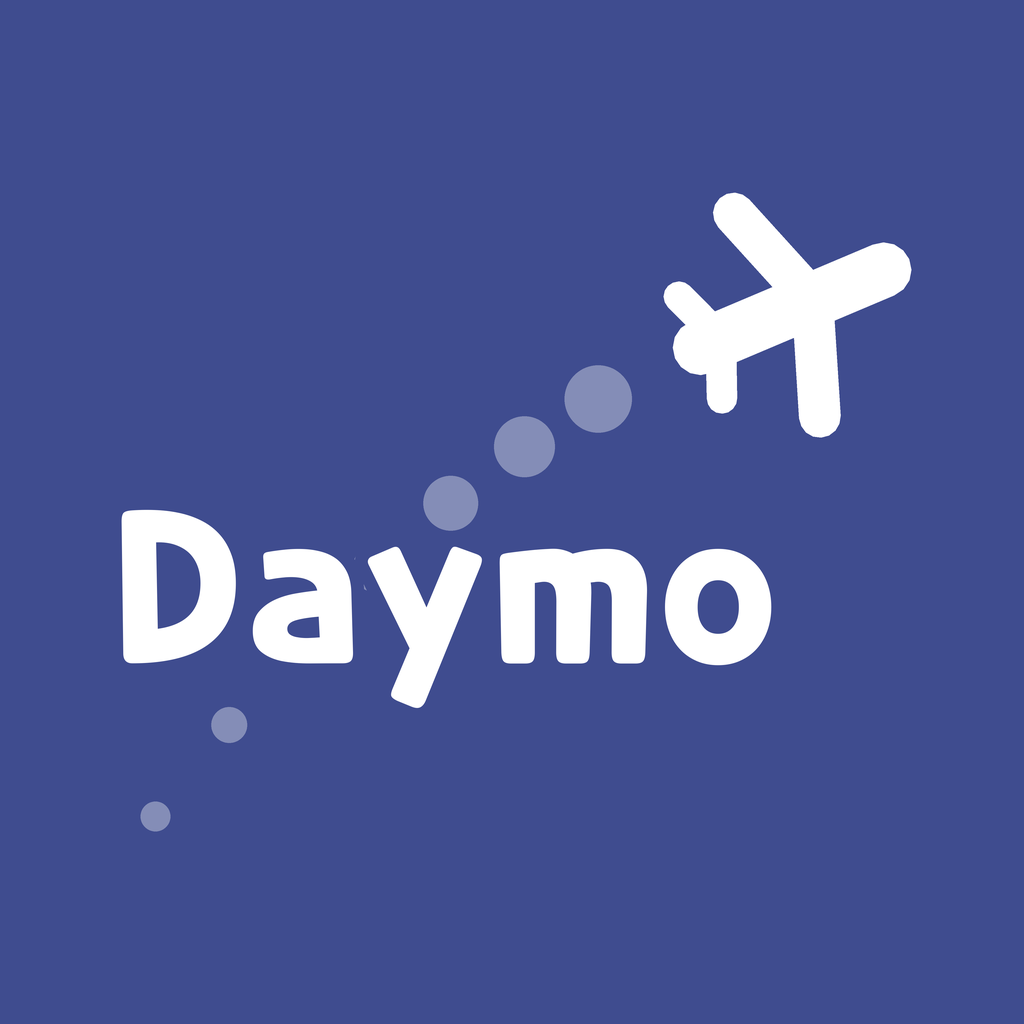
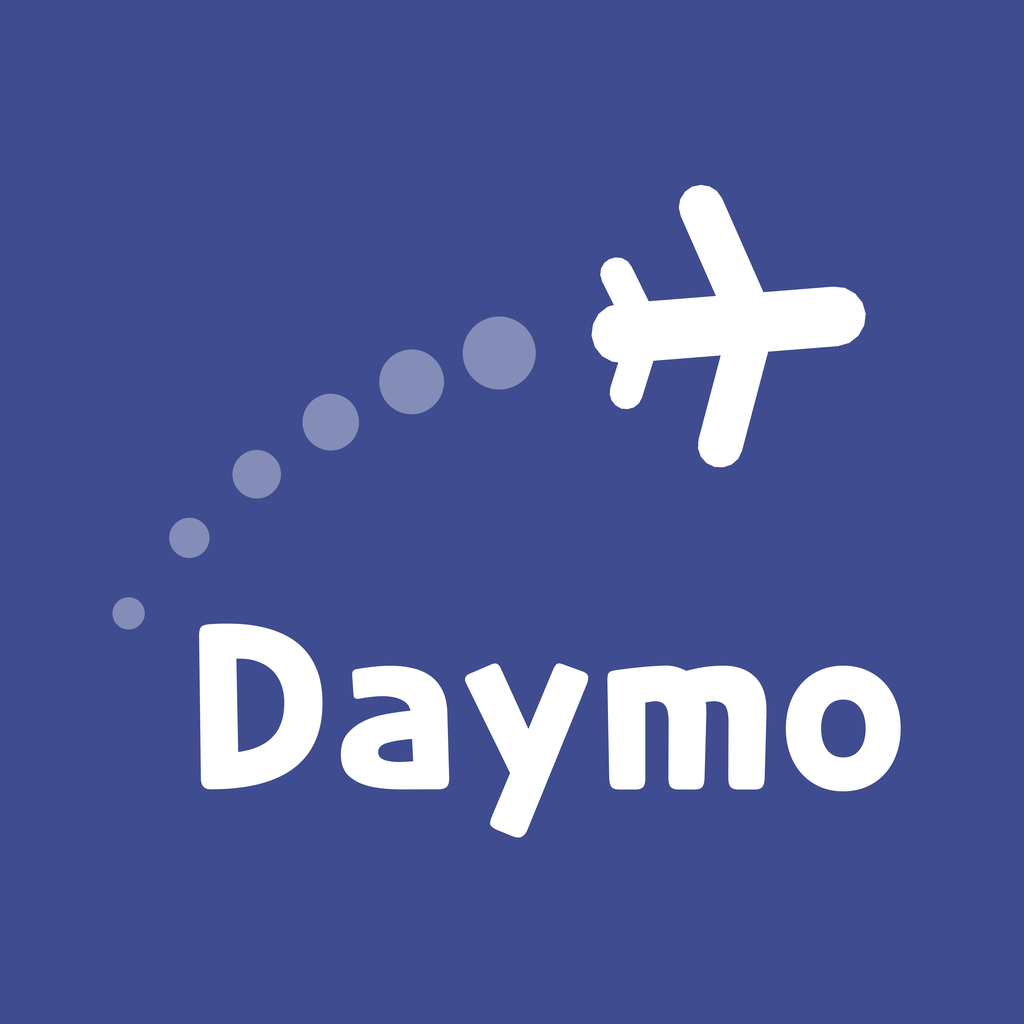
feat(app): the flight path arcs over the name and the plane sits closer
The dots used to rise from under the wordmark and three of seven hid
behind the letters, with the plane off in the top-right corner. The path
now starts left of the D and curves over the name, every dot visible, and
the plane lands above "ym". The splash box moves up so the wing is not cut.

Claude-Session: https://claude.ai/code/session_01HQmza3up7dJje4K8r8DE35

diff --git a/mobile/scripts/build-icons.py b/mobile/scripts/build-icons.py
@@ -52,10 +52,15 @@ SPLASH_PAPER_DARK = (13, 17, 26)  # #0D111A 앱 배경
 
 # --- 그림 좌표. 320 x 620 짜리 화면 하나를 기준으로 잡는다. -----------------
 
-# 궤적. 가운데 점이 두 끝을 잇는 선보다 위에 있어서 솟았다가 눕는다.
-CURVE = ((46, 486), (160, 313), (274, 296))
-TRAIL_COUNT = 7
-TRAIL_FROM, TRAIL_TO = 0.16, 0.68
+# 궤적. D 왼쪽 위에서 떠올라 이름 위를 둥글게 넘어간다.
+#
+# 예전에는 이름 아래에서 올라와 글자 뒤를 지나갔다. 점 일곱 개 중 셋이 글자에
+# 가려 경로가 끊겨 보였고, 비행기는 오른쪽 위 구석에 떨어져 있었다. 이제 점이
+# 전부 글자 위에 보이고 비행기는 이름 가운데("ym") 위에 온다.
+# 이름("Daymo")은 장면 좌표에서 x 71~250, 위 끝 y 352 다.
+CURVE = ((56, 350), (104, 282), (190, 280))
+TRAIL_COUNT = 6
+TRAIL_FROM, TRAIL_TO = 0.0, 0.74
 TRAIL_RADIUS = 9.0
 TRAIL_ALPHA = 0.36
 
@@ -93,7 +98,7 @@ PLANE_SHAPES = [
 # 마지막 점을 덮어서 뒤쪽이 지저분해진다.
 PLANE_PIVOT = (12.0, 50.0)
 PLANE_HEADING = 0.0  # 상자 안의 그림이 보는 방향. 궤적의 진행 방향으로 돌린다.
-PLANE_AT = 0.80  # 궤적 위의 자리
+PLANE_AT = 0.93  # 궤적 위의 자리. 끝 가까이 둬야 마지막 점과 꼬리 사이가 벌어지지 않는다.
 PLANE_SIZE = 74.0
 
 WORDMARK = "Daymo"
@@ -108,8 +113,9 @@ TAGLINE_AT = (160, 418)
 TAGLINE_ALPHA = 0.55
 
 # 실행 화면이 담는 범위. app.json 의 imageWidth 와 비율이 맞아야 해서 예전
-# 모눈을 깔던 때의 크기를 그대로 둔다.
-SPLASH_BOX = (0, 240, 320, 460)
+# 모눈을 깔던 때의 크기(320 x 220)를 그대로 둔다. 궤적이 이름 위로 넘어가게
+# 바꾸면서 비행기가 높아져, 날개가 잘리지 않게 상자를 위로 옮겼다.
+SPLASH_BOX = (0, 226, 320, 446)
 SPLASH_PIXEL_WIDTH = 1024
 
 # 안드로이드 적응형 아이콘에서 반드시 보이는 영역은 가운데 3분의 2다.
